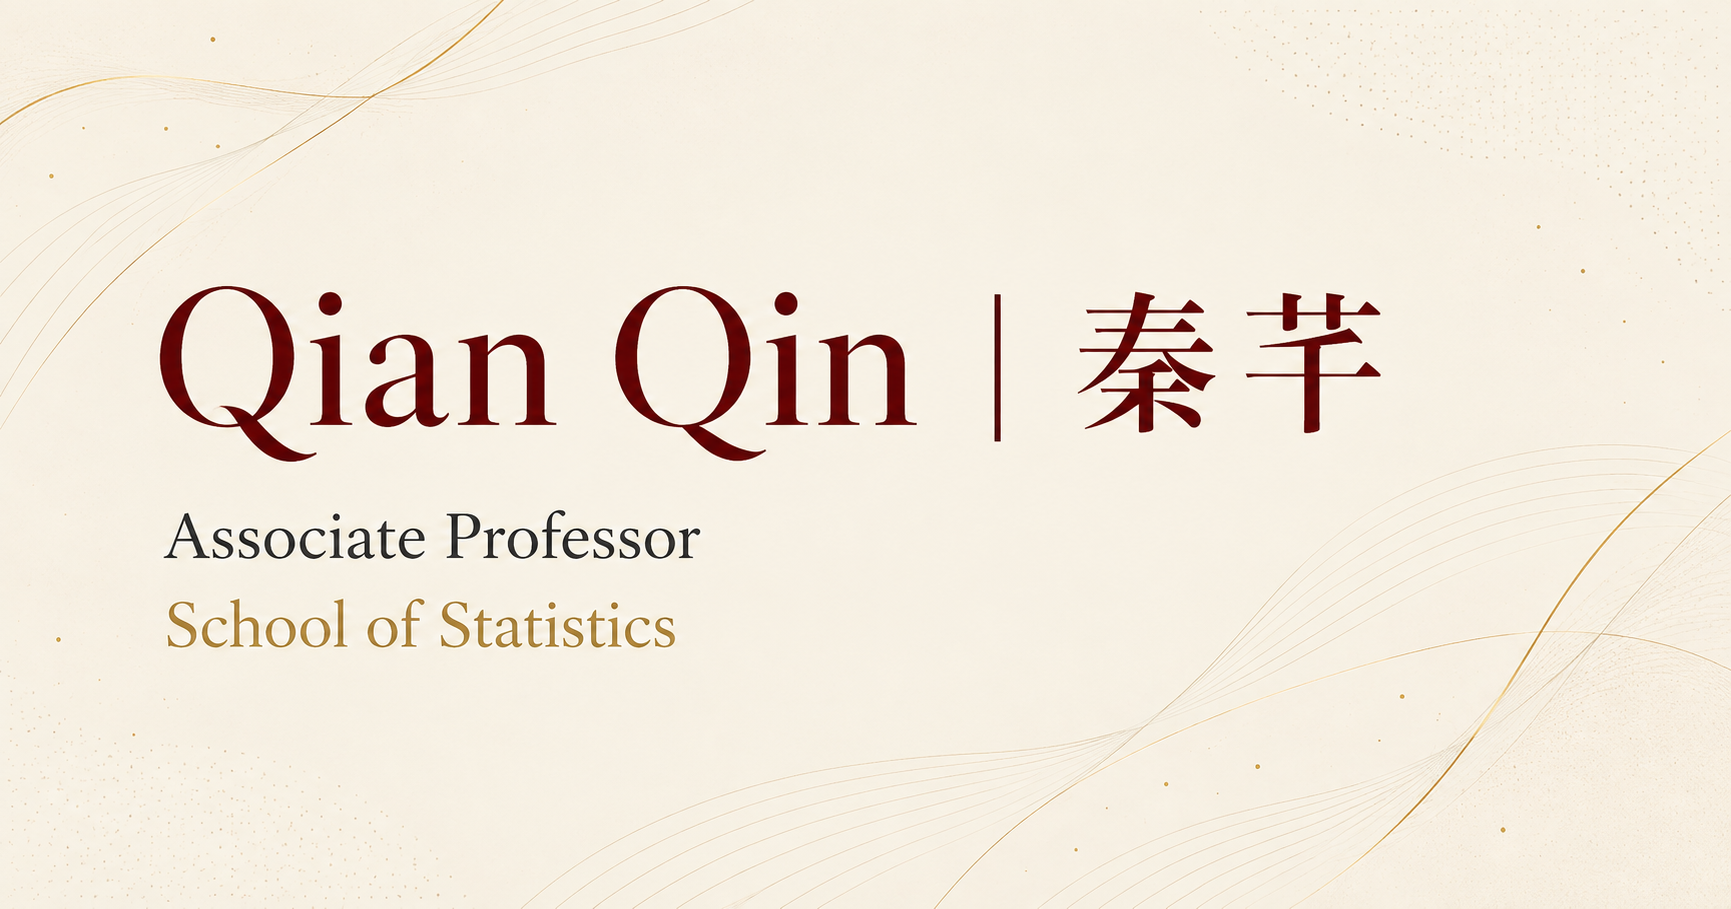
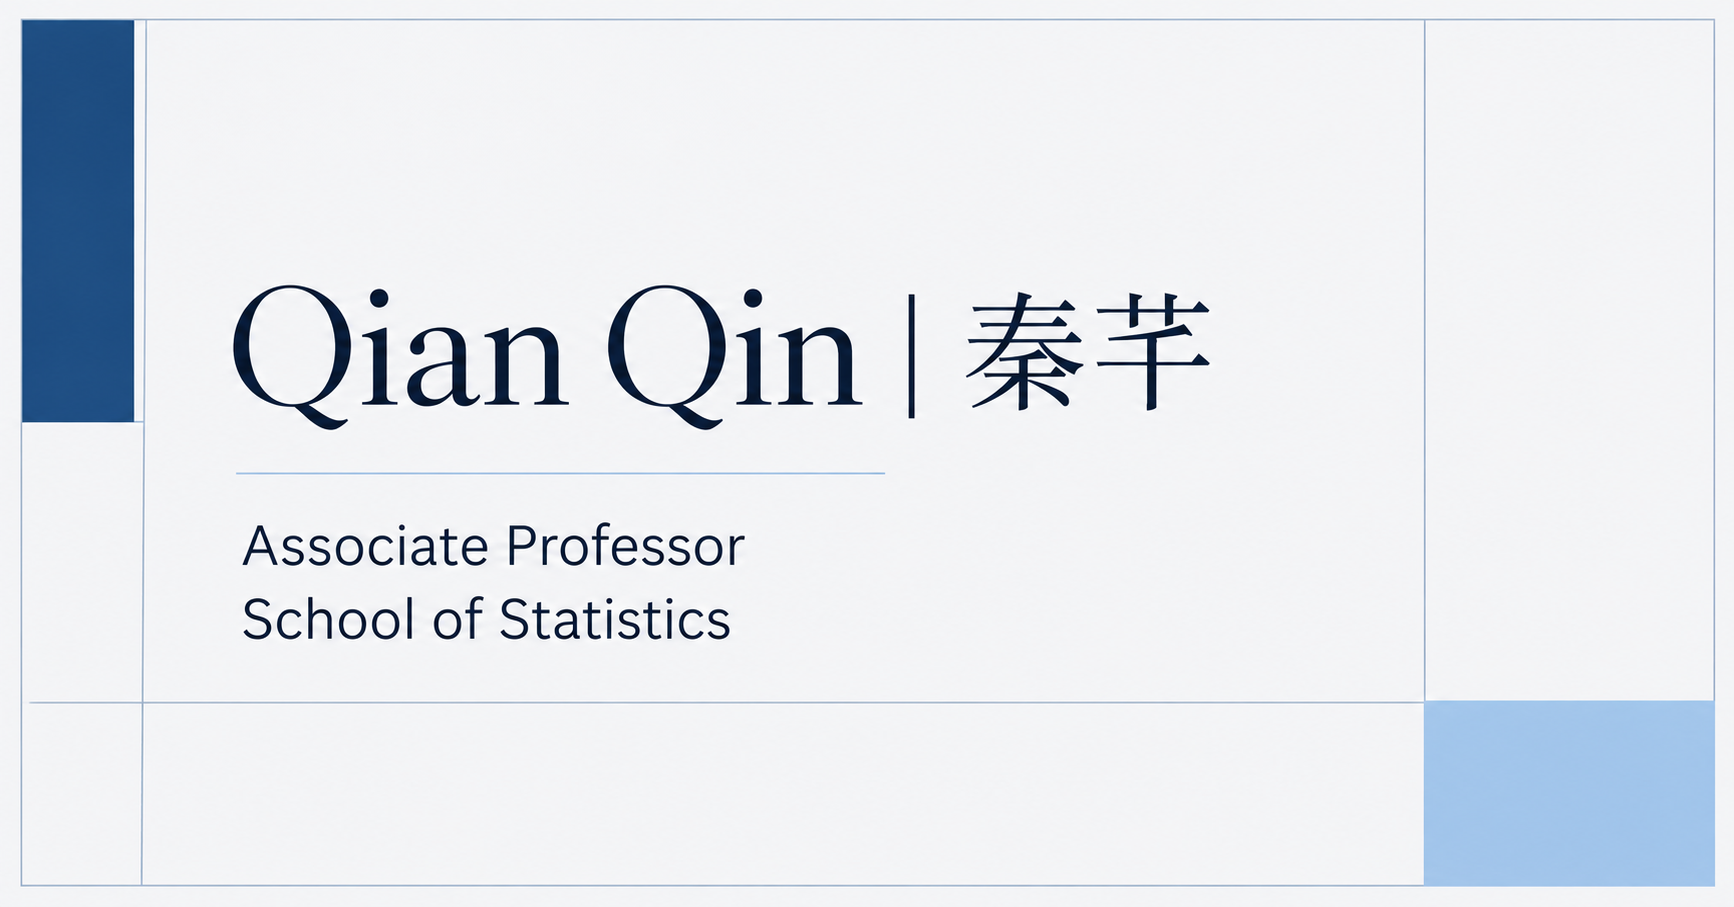
Adopt Oxford Blue visual theme

diff --git a/app/globals.css b/app/globals.css
@@ -20,29 +20,29 @@
 }
 
 :root {
-  --background: #f2efe8;
-  --foreground: #181816;
-  --card: #faf8f3;
-  --card-foreground: #181816;
-  --primary: #661d33;
-  --primary-foreground: #fffaf5;
-  --muted: #e8e3da;
-  --muted-foreground: #65645d;
-  --border: #cfcbc1;
-  --ring: #661d33;
+  --background: #f3f5f7;
+  --foreground: #16212b;
+  --card: #fbfcfd;
+  --card-foreground: #16212b;
+  --primary: #214f7b;
+  --primary-foreground: #f8fbff;
+  --muted: #e5ebf0;
+  --muted-foreground: #5e6b76;
+  --border: #cbd4db;
+  --ring: #214f7b;
 }
 
 .dark {
-  --background: #181816;
-  --foreground: #f2efe8;
-  --card: #22221f;
-  --card-foreground: #f2efe8;
-  --primary: #ddb5c0;
-  --primary-foreground: #291019;
-  --muted: #2a2a26;
-  --muted-foreground: #bab8af;
-  --border: #42413a;
-  --ring: #ddb5c0;
+  --background: #12283a;
+  --foreground: #f3f5f7;
+  --card: #193447;
+  --card-foreground: #f3f5f7;
+  --primary: #a8c9e8;
+  --primary-foreground: #102536;
+  --muted: #233f52;
+  --muted-foreground: #b7c7d3;
+  --border: #355268;
+  --ring: #a8c9e8;
 }
 
 @layer base {
@@ -61,8 +61,8 @@
   }
 
   ::selection {
-    background: #661d33;
-    color: #fffaf5;
+    background: var(--primary);
+    color: var(--primary-foreground);
   }
 }
 
@@ -122,7 +122,7 @@
 
 .basic-info {
   display: grid;
-  grid-template-columns: minmax(0, 1.16fr) minmax(320px, 0.84fr);
+  grid-template-columns: minmax(0, 1.28fr) minmax(280px, 0.72fr);
   min-height: calc(100vh - 76px);
   border-bottom: 1px solid var(--border);
 }
@@ -145,10 +145,10 @@
 }
 
 .identity-panel h1 {
-  max-width: 780px;
+  max-width: 680px;
   margin: 0;
   font-family: Georgia, 'Times New Roman', serif;
-  font-size: clamp(3.7rem, 7.8vw, 8rem);
+  font-size: clamp(3.2rem, 5.8vw, 6rem);
   font-weight: 400;
   letter-spacing: -0.07em;
   line-height: 0.9;
@@ -158,7 +158,7 @@
   margin-top: clamp(2.5rem, 5vw, 4rem);
   padding-top: 1.35rem;
   border-top: 1px solid var(--foreground);
-  color: #474741;
+  color: var(--muted-foreground);
   font-size: clamp(0.98rem, 1.3vw, 1.15rem);
   line-height: 1.55;
 }
@@ -198,10 +198,14 @@
 }
 
 .portrait {
-  min-height: 620px;
+  align-self: center;
+  justify-self: center;
+  width: min(82%, 430px);
+  min-height: 0;
+  aspect-ratio: 4 / 5;
   margin: 0;
   overflow: hidden;
-  background: #d8d2c8;
+  background: #d2dce4;
 }
 
 .portrait img {
@@ -263,7 +267,7 @@
 }
 
 .student-card .background-copy p {
-  color: #eadde0;
+  color: color-mix(in srgb, var(--primary-foreground), transparent 12%);
 }
 
 .student-card .background-copy p:first-child {
@@ -277,7 +281,7 @@
 
 .research-section {
   padding: clamp(6rem, 10vw, 10rem) 6vw;
-  background: #faf8f3;
+  background: var(--card);
 }
 
 .research-intro {
@@ -302,7 +306,7 @@
 .research-intro > p {
   max-width: 820px;
   margin: 0;
-  color: #45453f;
+  color: var(--foreground);
   font-family: Georgia, 'Times New Roman', serif;
   font-size: clamp(1.55rem, 2.8vw, 2.6rem);
   letter-spacing: -0.025em;
@@ -342,7 +346,7 @@
 .articles article p {
   max-width: 920px;
   margin: 0;
-  color: #34342f;
+  color: var(--foreground);
   font-family: Georgia, 'Times New Roman', serif;
   font-size: clamp(1.05rem, 1.6vw, 1.32rem);
   line-height: 1.65;
@@ -361,12 +365,12 @@
   grid-template-columns: minmax(190px, 0.55fr) minmax(0, 1.45fr);
   gap: clamp(2rem, 7vw, 8rem);
   padding: clamp(6rem, 10vw, 10rem) 6vw;
-  background: #1d1e1a;
-  color: #f2efe8;
+  background: #12283a;
+  color: #f3f5f7;
 }
 
 .links-section > h2 {
-  color: #d9b36a;
+  color: #a8c9e8;
 }
 
 .links-copy {
@@ -377,14 +381,19 @@
   margin: 0;
   padding: 1.5rem 0;
   border-bottom: 1px solid #ffffff2e;
-  color: #d6d3ca;
+  color: #d7e1e8;
   font-family: Georgia, 'Times New Roman', serif;
   font-size: clamp(1.25rem, 2.2vw, 2rem);
   line-height: 1.5;
 }
 
 .links-copy a {
-  color: #f2efe8;
+  color: #f3f5f7;
+}
+
+.links-copy a:hover,
+.links-copy a:focus-visible {
+  color: #a8c9e8;
 }
 
 @media (max-width: 900px) {
@@ -393,11 +402,13 @@
   }
 
   .identity-panel {
-    min-height: 68vh;
+    min-height: 62vh;
   }
 
   .portrait {
-    min-height: 70vh;
+    width: min(72vw, 420px);
+    min-height: 0;
+    margin-bottom: clamp(4rem, 10vw, 6rem);
   }
 
   .background-grid {
@@ -446,11 +457,12 @@
   }
 
   .identity-panel h1 {
-    font-size: clamp(3.2rem, 17vw, 5rem);
+    font-size: clamp(2.8rem, 13vw, 4.25rem);
   }
 
   .portrait {
-    min-height: 540px;
+    width: min(84vw, 380px);
+    min-height: 0;
   }
 
   .background-grid,

diff --git a/app/layout.tsx b/app/layout.tsx
@@ -21,8 +21,8 @@ export const metadata: Metadata = {
     images: [
       {
         url: 'https://qian-qin.qianqin11.chatgpt.site/og.png',
-        width: 1680,
-        height: 945,
+        width: 1734,
+        height: 907,
         alt: 'Qian Qin | 秦芊',
       },
     ],
